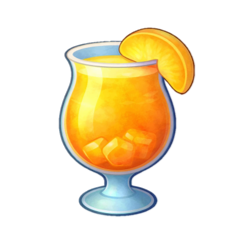
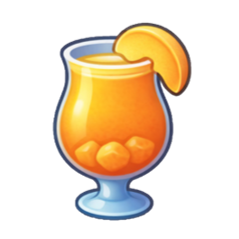
ital

Changed region(s): [[0.205, 0.0879, 0.8201, 0.9372]]

diff --git a/src/lib/parser.ts b/src/lib/parser.ts
@@ -502,16 +502,16 @@ export const SAMPLE_DATA_TEXT = `烘焙坊	分類
 義大利餐廳	分類		
 	披薩麵團	小麥麵團	高筋麵粉x2	乾酵母x1	水x1
 		穀物麵團	玉米粉x1	黑麥粉x1	大麥x1	乾酵母x1	水x1
-	豬肉	？？
+	豬肉	肉丸
 	番茄醬	番茄醬汁	番茄x3	大蒜x2	大豆油x1	白糖x2
 	義大利麵條	扁義大利麵		黑麥粉x3 	雞蛋x1
 	短義大利麵	斜管通心麵		玉米粉x3 	雞蛋x1
 		螺旋麵	玉米粉x2	米粉x1 	雞蛋x1
 	馬鈴薯麵疙	馬鈴薯麵疙	馬鈴薯x2	中筋麵粉x1		雞蛋x1
 	千層麵條	千層麵條	中筋麵粉x2		雞蛋x1
-	布魯斯凱塔	？？
-		美味的？？
-		優質？？
+	布魯斯凱塔	布魯斯凱塔
+		美味的布魯斯凱塔
+		優質布魯斯凱塔
 	蔬菜燉飯	春季時蔬燉飯	大麥x3		蘆筍x2		洋蔥x1		菠菜x1		橄欖油x1
 		美味的春季時蔬燉飯	大麥x3		蘆筍x3		洋蔥x2		菠菜x2		奶油x1		橄欖油x1	鹽x1
 		優質春季時蔬燉飯
@@ -564,9 +564,9 @@ export const SAMPLE_DATA_TEXT = `烘焙坊	分類
 	斜管通心麵	辣味番茄義大利麵	斜管通心麵x2	大蒜x1		番茄x1		橄欖油x1
 		美味的辣味番茄義大利麵
 		優質辣味番茄義大利麵
-		？？
-		美味的？？
-		優質？？
+		烤斜管通心麵
+		美味的烤斜管通心麵
+		優質烤斜管通心麵
 		？？
 		美味的？？
 		優質？？